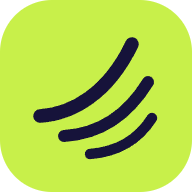
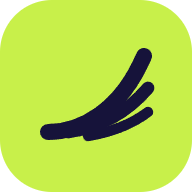
Talaria mark: back to the joined three-feather wing

Changed region(s): [[0.1562, 0.1875, 0.8438, 0.8438]]

diff --git a/frontend/src/shared/components/ui/Logo.tsx b/frontend/src/shared/components/ui/Logo.tsx
@@ -14,16 +14,16 @@ interface TalariaMarkProps {
     className?: string;
 }
 
-/** Talaria — Hermes' winged sandals: three feathers fanning up into a wing. The student app's mark. */
+/** Talaria — Hermes' winged sandals: three feathers of a wing, joined at the root. The student app's mark. */
 export const TalariaMark = ({ size = 40, tone = 'volt', className }: TalariaMarkProps) => {
     const tile = tone === 'dark' ? '#16133A' : '#C8F04A';
     const wing = tone === 'dark' ? '#C8F04A' : '#16133A';
     return (
         <svg width={size} height={size} viewBox="0 0 48 48" aria-hidden="true" className={cn('shrink-0', className)}>
             <rect width="48" height="48" rx="13" fill={tile} />
-            <path d="M10 29 C 18 28.5, 27 23.5, 33 11" fill="none" stroke={wing} strokeWidth="3.4" strokeLinecap="round" />
-            <path d="M16 34 C 24 33.5, 31.5 29.5, 37 20.5" fill="none" stroke={wing} strokeWidth="3" strokeLinecap="round" />
-            <path d="M22.5 38.5 C 29 38, 34.5 35, 38 29.5" fill="none" stroke={wing} strokeWidth="2.6" strokeLinecap="round" />
+            <path d="M12 33 C 20 33, 30 28, 36 14" fill="none" stroke={wing} strokeWidth="4" strokeLinecap="round" />
+            <path d="M17 33 C 24 32, 31 29, 37 22" fill="none" stroke={wing} strokeWidth="3.2" strokeLinecap="round" />
+            <path d="M22 34 C 28 33, 33 31, 37 28" fill="none" stroke={wing} strokeWidth="2.6" strokeLinecap="round" />
         </svg>
     );
 };
